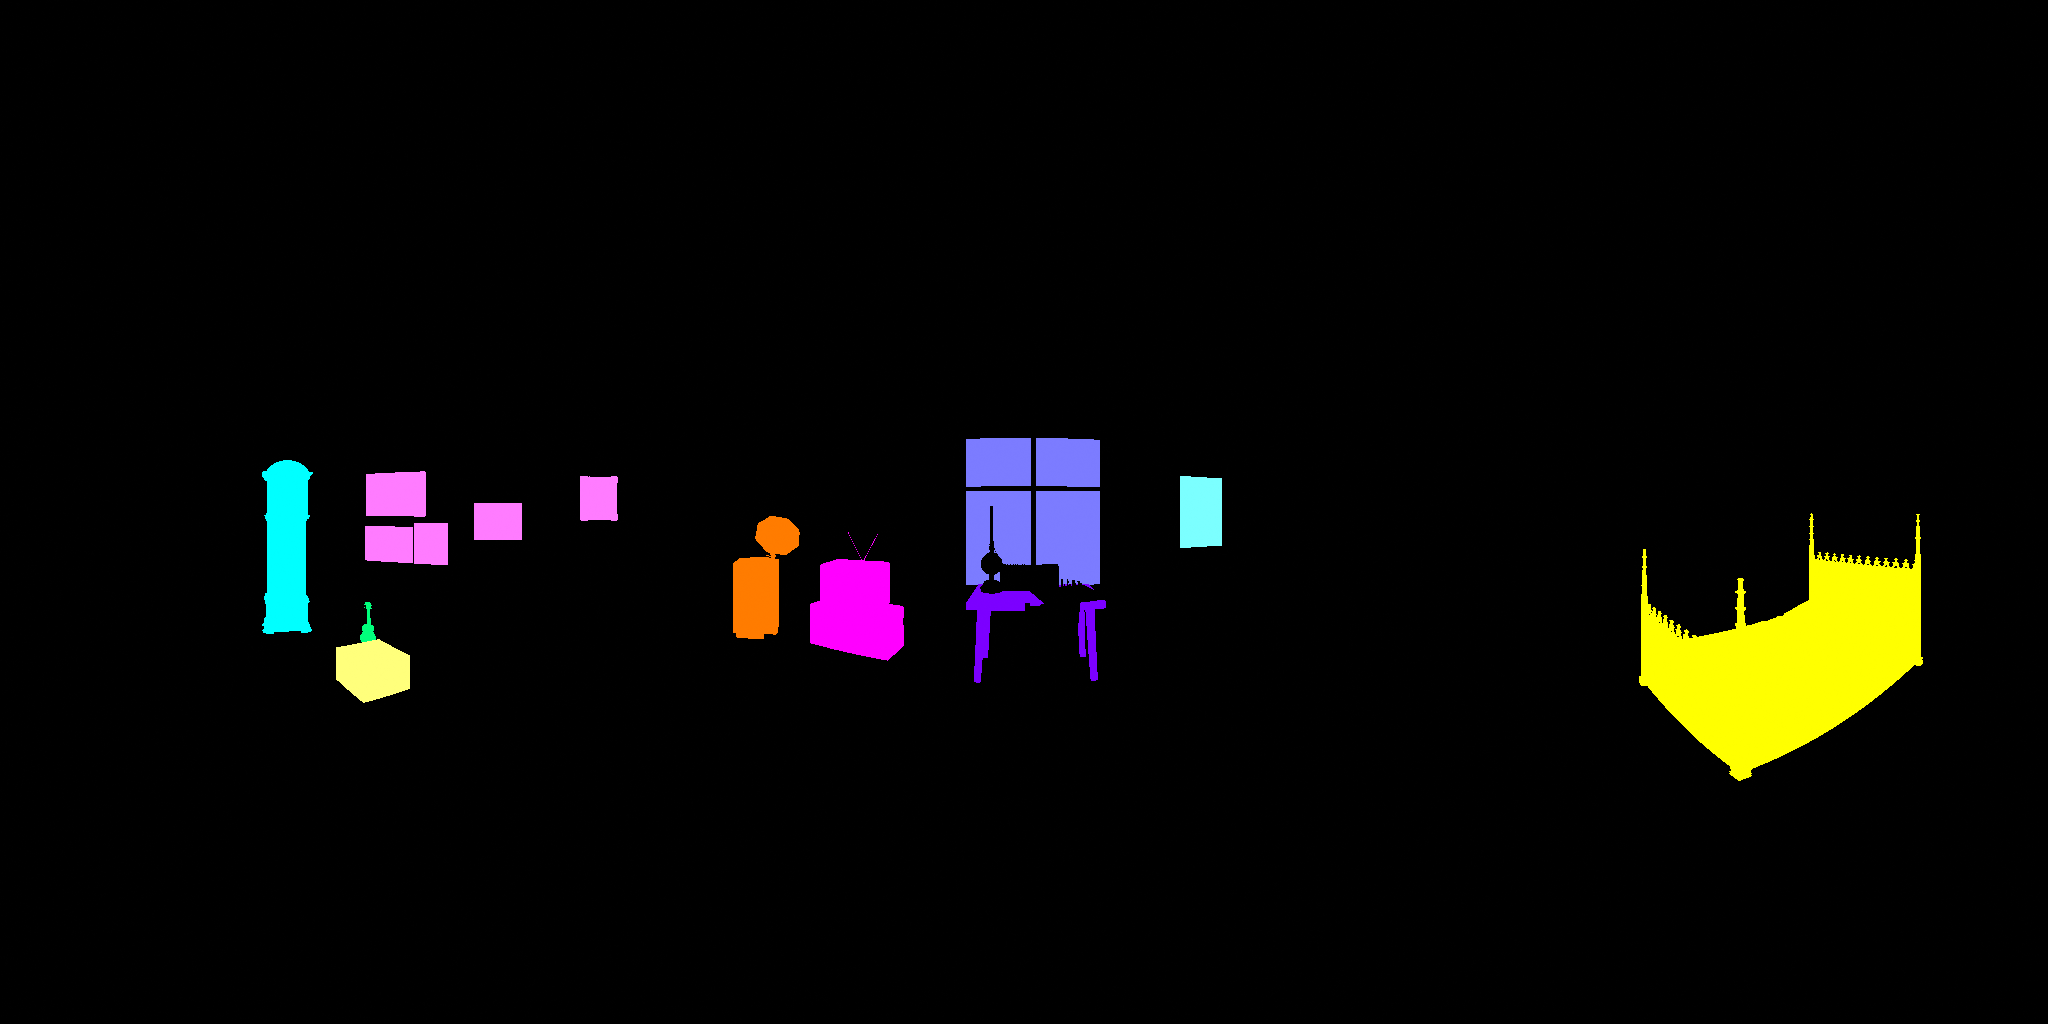
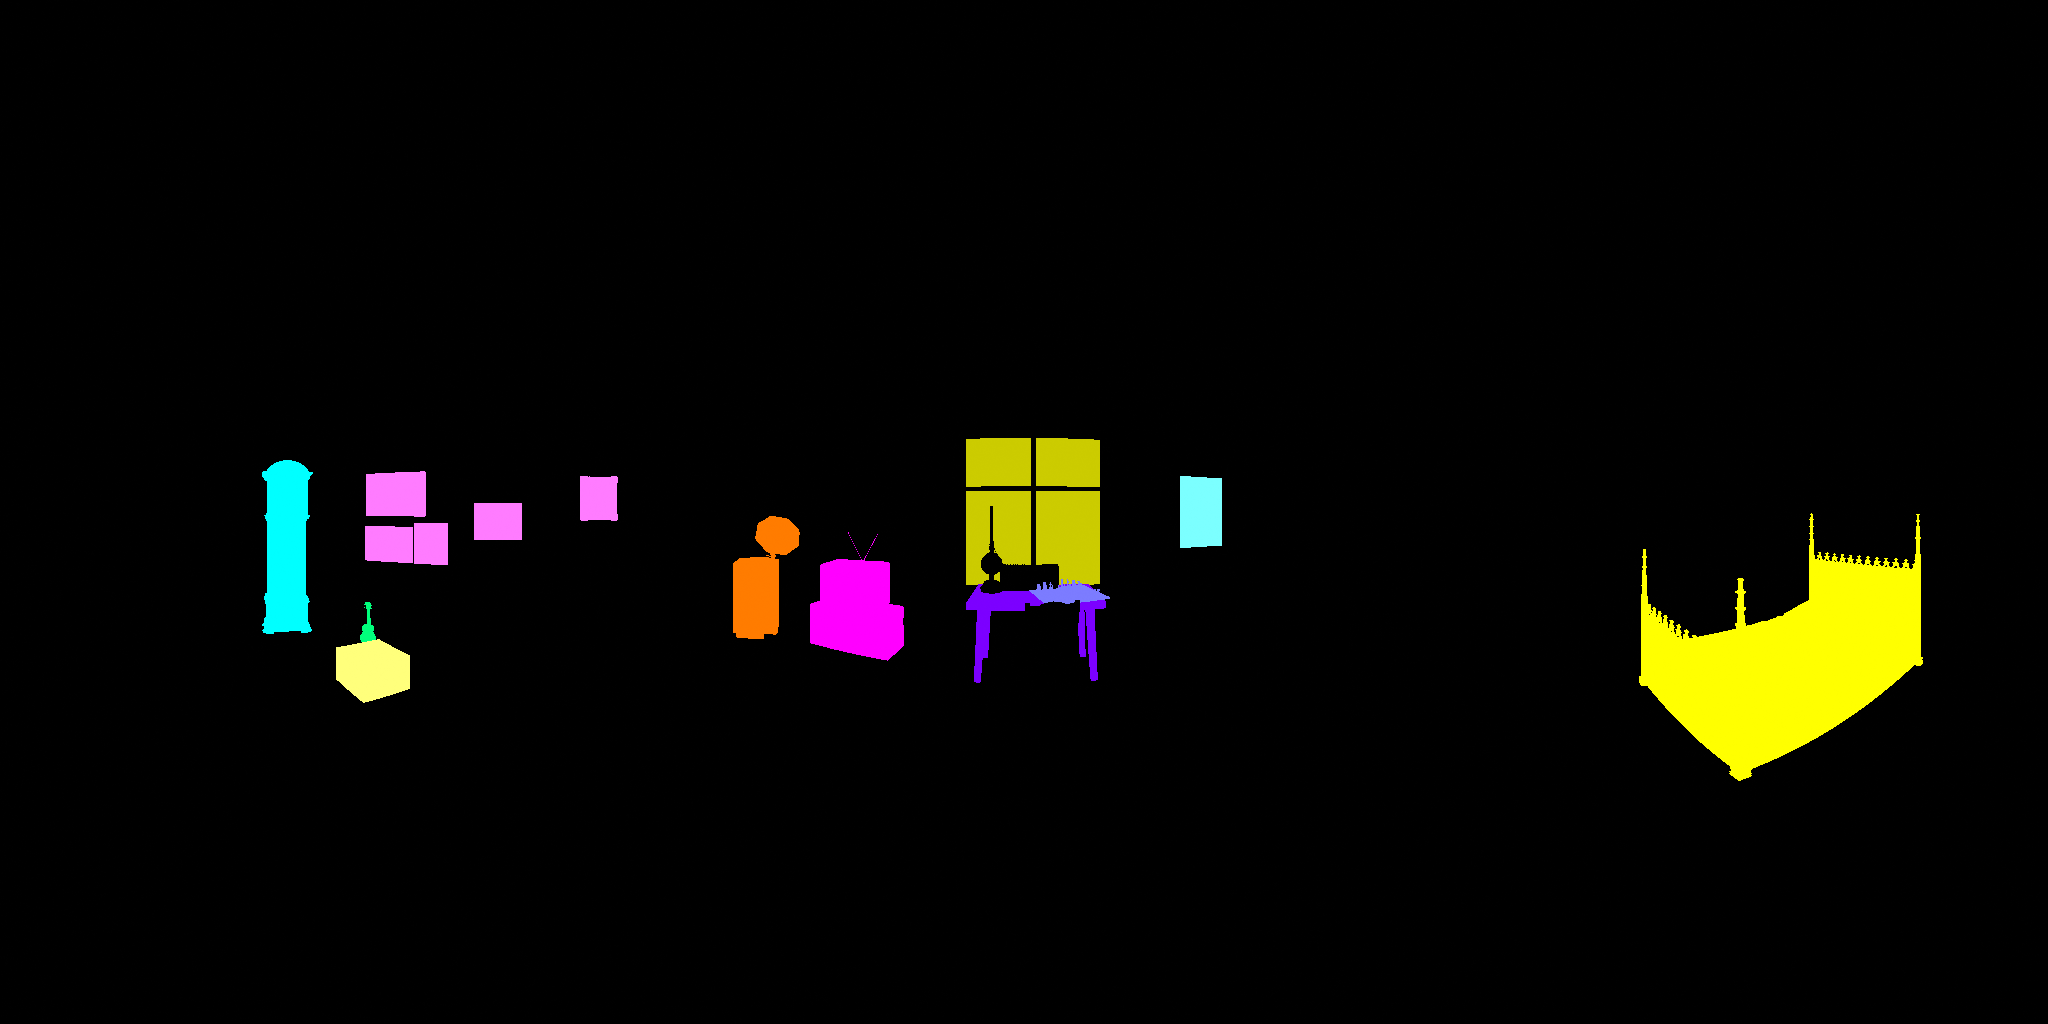
Give the chess set its own spot, with rumors and a reward
- The chess set is a clickable spot in the room (체스판), with a close-up
  rendered from above the desk chair; the desk card is back to its notes
- Taking a piece pins one of the paradise's rumors over the board, the
  room's owner talks when it takes or gives check, and a clock ticks while
  it thinks
- Winning reveals a note for the winner with a way to the gramophone
  (placeholder for an unreleased track or a show hint)

Changed region(s): [[0.4688, 0.4062, 0.5625, 0.5938]]

diff --git a/akmu-pitch/pano/world/chess.js b/akmu-pitch/pano/world/chess.js
@@ -9,6 +9,31 @@ const LEVELS = [
 ];
 const KEY = "akmu-room-chess-v1";
 const OWNER = "방의 주인";
+// what the paradise whispers when you take a piece (in-world tales, not news)
+const RUMORS = [
+  "호수 건너편에선 노래가 한 박자 늦게 들린대요.",
+  "무대 뒤 사구는 밤마다 손톱만큼 자란대요.",
+  "황금빛 덤불은 박수 소리가 나면 꽃을 더 피운대요.",
+  "언덕 위의 문은 노래를 흥얼거려야 열린대요.",
+  "호수 위 배에는 아직 아무도 읽지 않은 편지가 한 통 남아 있대요.",
+  "풍력발전기는 바람이 아니라 노래로 돈대요.",
+  "피크닉 카세트의 B면은 아무도 끝까지 못 들었대요.",
+  "괘종시계는 이 방에서만 거꾸로 간대요.",
+  "TV 탑은 보는 사람마다 다른 장면을 보여 준대요.",
+  "레코드 가판대의 마지막 한 장은 팔지 않는 거래요.",
+  "낙원에선 소문이 사실이 되기까지 사흘이 걸린대요.",
+  "방의 주인은 체스에서 한 번도 진 적이 없대요.",
+];
+const SAYS = {
+  hello: ["오늘은 흰 말을 양보할게요.", "천천히 두세요. 여긴 시간이 느리게 가요."],
+  take: ["이건 제가 가져갈게요.", "아, 미안해요.", "소문보다 제 말이 빠르네요."],
+  check: ["체크. 왕을 조심하세요.", "왕이 좀 외로워 보이네요."],
+  checked: ["음… 생각보다 날카롭네요.", "그 수는 소문에 없던 건데요."],
+  lose: ["졌네요. 약속대로 하나 알려 드릴게요.", "소문이 하나 틀렸네요. 제가 졌어요."],
+  win: ["한 판 더 할래요?", "다음엔 흰 말도 양보 안 할지 몰라요."],
+  draw: ["비긴 걸로 해 두죠.", "오늘은 여기까지 하죠."],
+};
+const pick = (a) => a[Math.floor(Math.random() * a.length)];
 const LETTER = ["", "p", "n", "b", "r", "q", "k"];
 
 const css = `
@@ -38,17 +63,26 @@ const css = `
 .chess .cb-lv button { font-size: 12.5px; padding: 7px 12px; color: var(--soft); }
 .chess .cb-lv button.on { background: var(--ink); color: var(--paper); }
 .chess .cb-ctl .btn { padding: 8px 14px; font-size: 12.5px; }
+.chess .cb-note { position: absolute; left: 50%; top: 14%; z-index: 4; width: min(86%, 320px); padding: 12px 16px 13px; background: #fbf4e2; color: var(--ink);
+  border-radius: 4px; box-shadow: 0 16px 30px -12px rgba(0, 0, 0, .6), 0 0 0 1px rgba(60, 40, 20, .08); font-family: var(--font-ko), serif; font-size: 15px; line-height: 1.55;
+  opacity: 0; transform: translate(-50%, 10px) rotate(-1.5deg); transition: opacity .4s, transform .5s cubic-bezier(.2, .85, .25, 1); pointer-events: none; }
+.chess .cb-note.on { opacity: 1; transform: translate(-50%, 0) rotate(-1.5deg); }
+.chess .cb-note small { display: block; font-family: var(--font-type); font-size: 10.5px; letter-spacing: .12em; color: var(--rust); margin-bottom: 4px; }
+.chess .cb-reward { display: none; margin-top: 14px; padding: 14px 16px; border-radius: 14px; background: var(--ink); color: var(--paper); }
+.chess .cb-reward.on { display: block; }
+.chess .cb-reward small { display: block; font-family: var(--font-type); font-size: 10.5px; letter-spacing: .14em; color: var(--gold); margin-bottom: 6px; }
+.chess .cb-reward p { margin: 0; font-family: var(--font-ko), serif; font-size: 15px; line-height: 1.6; }
+.chess .cb-reward .btn { margin-top: 10px; background: var(--paper); color: var(--ink); }
+.chess .cb-reward .ph { border-color: rgba(255, 248, 234, .3); color: rgba(255, 248, 234, .6); }
 .chess .cb-promo { position: absolute; inset: 0; display: none; place-items: center; background: rgba(30, 22, 14, .45); border-radius: 6px; z-index: 3; }
 .chess .cb-promo.on { display: grid; }
 .chess .cb-promo div { display: flex; gap: 6px; background: var(--paper); padding: 10px; border-radius: 14px; box-shadow: 0 12px 30px -10px #000; }
 .chess .cb-promo button { width: calc(var(--sq) * 1.05); height: calc(var(--sq) * 1.25); position: relative; border-radius: 10px; }
 .chess .cb-promo button:hover { background: rgba(35, 27, 20, .08); }
 .chess .cb-promo img { position: absolute; inset: 4%; width: 92%; height: 92%; object-fit: contain; }
-@media (min-width: 761px) { .card.chessing { width: min(500px, calc(100vw - 32px)); } }
-@media (max-width: 760px) { .card.chessing { max-height: 86vh; } }
 `;
 
-export function mountChess(root, { base = "chess/", tag = "", blip = () => {}, onLeave = null } = {}) {
+export function mountChess(root, { base = "chess/", tag = "", blip = () => {}, openSpot = null } = {}) {
   if (!document.getElementById("chess-css")) {
     const st = document.createElement("style");
     st.id = "chess-css"; st.textContent = css;
@@ -63,15 +97,35 @@ export function mountChess(root, { base = "chess/", tag = "", blip = () => {}, o
 
   root.innerHTML = `<div class="chess">
     <div class="cb-who"><span><b>${OWNER}</b>검은 말</span><span class="cb-caps" data-side="b"></span></div>
-    <div class="cb-board" style="background-image:url(${base}board.jpg${tag})"><div class="cb-promo"><div></div></div></div>
+    <div class="cb-board" style="background-image:url(${base}board.jpg${tag})"><div class="cb-promo"><div></div></div><div class="cb-note"><small></small><span></span></div></div>
     <div class="cb-who"><span><b>나</b>흰 말</span><span class="cb-caps" data-side="w"></span></div>
     <p class="cb-status"></p>
+    <div class="cb-reward"><small>A RUMOR, FOR THE WINNER</small><p>방의 주인이 쪽지를 건넸어요. "축음기 뒤에, 아직 아무도 듣지 못한 노래가 한 곡 있대요."</p>
+      <div class="ph">자리 표시 — 미공개 트랙·다음 공연 힌트 (시안에는 음원 없음)</div><button class="btn" data-act="gramophone">축음기로 가 보기 →</button></div>
     <div class="cb-ctl">
       <div class="cb-lv">${LEVELS.map((l, i) => `<button data-lv="${i}">${l.name}</button>`).join("")}</div>
-      <div class="btns" style="margin:0"><button class="btn" data-act="undo">무르기</button><button class="btn" data-act="new">새 판</button>${onLeave ? `<button class="btn" data-act="leave">노트로</button>` : ""}</div>
+      <div class="btns" style="margin:0"><button class="btn" data-act="undo">무르기</button><button class="btn" data-act="new">새 판</button></div>
     </div></div>`;
   const box = root.querySelector(".chess"), boardEl = box.querySelector(".cb-board"), statusEl = box.querySelector(".cb-status");
-  const promoEl = box.querySelector(".cb-promo");
+  const promoEl = box.querySelector(".cb-promo"), noteEl = box.querySelector(".cb-note"), rewardEl = box.querySelector(".cb-reward");
+  let noteTimer = 0, rumorAt = 0, tickTimer = 0;
+  try { rumorAt = +localStorage.getItem(KEY + "-rumor") || 0; } catch (e) { rumorAt = 0; }
+  // a paper note over the board: a rumor of the paradise, or a word from the room's owner
+  function note(label, text, ms = 3800) {
+    noteEl.querySelector("small").textContent = label;
+    noteEl.querySelector("span").textContent = text;
+    noteEl.classList.add("on");
+    clearTimeout(noteTimer);
+    noteTimer = setTimeout(() => noteEl.classList.remove("on"), ms);
+  }
+  const says = (k) => note(OWNER, pick(SAYS[k]));
+  function rumor() {
+    const text = RUMORS[rumorAt % RUMORS.length];
+    rumorAt++;
+    try { localStorage.setItem(KEY + "-rumor", rumorAt); } catch (e) { /* not kept */ }
+    note("소문 · RUMOR", text, 4600);
+    blip(990, 0.06, 0.025);
+  }
   const size = () => {
     // the whole card (title, board, controls) fits the screen without scrolling: about 330 px of it is not board
     const room = innerWidth <= 760 ? innerHeight * 0.86 - 320 : innerHeight - 96 - 330;
@@ -113,6 +167,9 @@ export function mountChess(root, { base = "chess/", tag = "", blip = () => {}, o
   function status() {
     const s = game.s, end = outcome(s, game.keys);
     statusEl.classList.toggle("think", thinking);
+    const won = !!end && end.result === "1-0";
+    if (won && !rewardEl.classList.contains("on")) setTimeout(() => rewardEl.scrollIntoView({ block: "nearest", behavior: "smooth" }), 400);
+    rewardEl.classList.toggle("on", won);
     if (end) {
       const why = { checkmate: "체크메이트", stalemate: "스테일메이트", fifty: "50수 규칙", material: "기물 부족", repetition: "같은 수 반복" }[end.why];
       statusEl.textContent = end.result === "1-0" ? `${why} — 당신이 이겼어요.` : end.result === "0-1" ? `${why} — ${OWNER}이 이겼어요.` : `${why}로 비겼어요.`;
@@ -166,12 +223,20 @@ export function mountChess(root, { base = "chess/", tag = "", blip = () => {}, o
     blip(m.captured ? 180 : 240, m.captured ? 0.09 : 0.05, 0.06);
     save();
     const end = draw();
-    if (end) { blip(end.result === "1-0" ? 880 : 330, 0.4, 0.05); return; }
+    if (end) {
+      blip(end.result === "1-0" ? 880 : 330, 0.4, 0.05);
+      says(end.result === "1-0" ? "lose" : end.result === "0-1" ? "win" : "draw");
+      return;
+    }
+    if (m.captured) { if (byOwner) says("take"); else rumor(); }
+    else if (inCheck(game.s)) says(byOwner ? "check" : "checked");
     if (!byOwner && game.s.turn === BLACK) think();
   }
 
   function think() {
     thinking = true; draw();
+    clearInterval(tickTimer);   // the clock ticks while the owner thinks
+    tickTimer = setInterval(() => { if (thinking && alive) blip(2400, 0.02, 0.02); else clearInterval(tickTimer); }, 600);
     worker.postMessage({ id: ++ask, moves, opts: LEVELS[level].opts });
   }
 
@@ -210,14 +275,14 @@ export function mountChess(root, { base = "chess/", tag = "", blip = () => {}, o
     moves = moves.slice(0, Math.max(0, moves.length - n));
     selected = null; targets = []; save(); load(); draw();
   };
-  const leave = box.querySelector('[data-act="leave"]');
-  if (leave) leave.onclick = () => onLeave();
+  box.querySelector('[data-act="gramophone"]').onclick = () => openSpot && openSpot("gramophone");
 
   load();
   draw();
+  if (!moves.length) setTimeout(() => alive && says("hello"), 700);
   if (game.s.turn === BLACK && !outcome(game.s, game.keys)) think();   // a saved game left on the owner's move
 
   return {
-    destroy() { alive = false; worker.terminate(); removeEventListener("resize", size); },
+    destroy() { alive = false; worker.terminate(); clearInterval(tickTimer); clearTimeout(noteTimer); removeEventListener("resize", size); },
   };
 }

diff --git a/akmu-pitch/pano/world/index.html b/akmu-pitch/pano/world/index.html
@@ -155,6 +155,8 @@ body.intro #island { opacity: 0; transform: translateX(-50%) translateY(-12px) s
 .card h2 span { display: inline-block; opacity: 0; filter: blur(8px); transform: translateY(8px); animation: word .7s var(--ease) forwards; }
 @keyframes word { to { opacity: 1; filter: none; transform: none; } }
 .card .sub { color: var(--soft); font-size: 14.5px; margin: 0 0 18px; }
+@media (min-width: 761px) { .card.chessing { width: min(500px, calc(100vw - 32px)); } }
+@media (max-width: 760px) { .card.chessing { max-height: 86vh; } }
 .card p { font-size: 15px; line-height: 1.7; }
 .card ol, .card ul { padding: 0; margin: 0 0 14px; list-style: none; }
 .card li { display: flex; gap: 10px; align-items: baseline; padding: 10px 0; border-bottom: 1px solid rgba(43, 33, 25, .1); font-size: 15px; }
@@ -644,7 +646,8 @@ const CONTENT = {
     photos: { label: "액자", note: "사진", tag: "PHOTOS", title: "벽에 걸린 장면들", sub: "공연과 뮤직비디오의 순간", html: polaroids() },
     poster: { label: "포스터", note: "공연", tag: "CONCERT", title: "소문의 낙원", sub: "벽에 붙여 둔 공연 포스터", html: `<img class="tilt" src="${REF}concert_02.png" alt="" style="width:100%;display:block;margin-bottom:14px;border-radius:12px">${concert}` },
     records: { label: "LP 상자", note: "디스코그래피", tag: "DISCOGRAPHY", title: "레코드 상자", sub: "지금까지의 앨범들", html: `<ul><li>개화 (FLOWERING)<small>LATEST</small></li><li>앨범 제목<small>YYYY</small></li><li>앨범 제목<small>YYYY</small></li></ul>${PH("디스코그래피 데이터")}` },
-    desk: { label: "책상", note: "가사 노트", tag: "NOTES", title: "가사 노트", sub: "창가 책상 위에 펼쳐 둔 노트와 체스판", html: `<p class="type" style="white-space:pre-line;background:#fbf6ea;padding:16px;border-radius:14px">소문의 낙원 —\n\n(가사 영역)</p><div class="btns"><button class="btn fill" id="playChess">창가의 체스 두기</button></div>${PH("가사·작업 노트")}` },
+    desk: { label: "책상", note: "가사 노트", tag: "NOTES", title: "가사 노트", sub: "창가 책상 위에 펼쳐 둔 노트", html: `<p class="type" style="white-space:pre-line;background:#fbf6ea;padding:16px;border-radius:14px">소문의 낙원 —\n\n(가사 영역)</p>${PH("가사·작업 노트")}` },
+    chess: { label: "체스판", note: "한 판 두기", tag: "CHESS", title: "창가의 체스", sub: "당신은 흰 말, 방의 주인은 검은 말. 말을 누르고 갈 칸을 누르세요.", html: `<div id="chessRoot"></div>`, chess: true },
     ukulele: { label: "우쿨렐레", note: "비하인드", tag: "BEHIND", title: "비하인드", sub: "작업실에서 생긴 일들", html: `<ul><li>비하인드 영상 제목<small>VIDEO</small></li><li>크레딧<small>CREDIT</small></li></ul>${PH("비하인드 콘텐츠")}` },
     bed: { label: "침대", note: "밤의 노래", tag: "GOOD NIGHT", title: "잠들기 전에", sub: "불을 끄고 듣는 노래", html: `<ol><li>트랙 이름<small>01</small></li><li>트랙 이름<small>02</small></li><li>트랙 이름<small>03</small></li></ol>${PH("밤 플레이리스트")}` },
     clock: { label: "괘종시계", note: "타임라인", tag: "TIMELINE", title: "AKMU의 시간", sub: "시계가 기억하는 순간들", html: `<ul><li>YYYY<small>사건 제목</small></li><li>YYYY<small>사건 제목</small></li><li>YYYY<small>사건 제목</small></li></ul>${PH("연대기 데이터")}` },
@@ -652,7 +655,7 @@ const CONTENT = {
   },
 };
 // bump when the renders change, so browsers fetch the new images instead of cached ones
-const V = "?r=20261027-chess";
+const V = "?r=20261027-chess2";
 const PLACE_NAME = { desert: "소문의 낙원", room: "방" };
 
 const $ = (s) => document.querySelector(s);
@@ -1128,6 +1131,7 @@ async function open(s, fromRect) {
   const c = CONTENT[place.name][s.key];
   if (!c || busy) return;
   busy = true; setHover(null); blip(660, 0.12, 0.05);
+  const chessMod = c.chess ? await import("./chess.js" + V) : null;
   if (c.enter) { await turnTo(s.dir, 30); await travel(c.enter); busy = false; return; }
   turnTo(s.dir, 46, 850);
   canvas.classList.add("dim");
@@ -1136,6 +1140,8 @@ async function open(s, fromRect) {
   const card = $("#card");
   card.classList.remove("ready");
   card.innerHTML = `<div class="tag">${c.tag}</div><h2>${words(c.title)}</h2><p class="sub">${c.sub}</p>${c.html}`;
+  card.classList.toggle("chessing", !!chessMod);
+  if (chessMod) chessGame = chessMod.mountChess($("#chessRoot"), { tag: V, blip, openSpot });
   const shot = $("#shot");
   shot.classList.remove("closing");
   shot.classList.add("on");
@@ -1232,28 +1238,15 @@ function tiltable(root) {
     el.onpointerleave = () => { el.classList.remove("live"); el.style.transform = base; };
   });
 }
-// the chess set on the desk: the card turns into a board you play against the room's owner
+// the chess set on the desk: its card is a board you play against the room's owner
 let chessGame = null;
 function endChess() {
   if (chessGame) { chessGame.destroy(); chessGame = null; }
   $("#card").classList.remove("chessing");
 }
-async function startChess() {
-  const card = $("#card");
-  const { mountChess } = await import("./chess.js" + V);
-  card.classList.add("chessing");
-  card.innerHTML = `<div class="tag">CHESS</div><h2>${words("창가의 체스")}</h2><p class="sub">당신은 흰 말, 방의 주인은 검은 말. 말을 누르고 갈 칸을 누르세요.</p><div id="chessRoot"></div>`;
-  chessGame = mountChess($("#chessRoot"), { tag: V, blip, onLeave: () => {
-    endChess();
-    const c = CONTENT.room.desk;
-    card.innerHTML = `<div class="tag">${c.tag}</div><h2>${words(c.title)}</h2><p class="sub">${c.sub}</p>${c.html}`;
-    wireCard();
-  } });
-}
+const openSpot = async (key) => { await closeShot(); const s = place.spots.find((x) => x.key === key); if (s) open(s); };
 function wireCard() {
   wireDeck();
-  const pc = $("#playChess");
-  if (pc) pc.onclick = () => { blip(520, 0.08, 0.04); startChess(); };
   tiltable($("#card"));
   const sl = $("#sendLetter");
   if (sl) sl.onclick = () => {

diff --git a/README.md b/README.md
@@ -20,7 +20,9 @@ MV와 무이네(Mũi Né) 사진을 바탕으로 Blender로 만든 360° 장면 
 - **방:** 축음기·TV·액자·침대가 있는 방. 창밖으로 낙원의 사구와 덤불이 보입니다
 - 물건에 마우스를 올리면 라벨이 켜지고, 누르면 4K 클로즈업과 콘텐츠 카드(공연, M/V, 앨범, 소문, 굿즈, 플레이리스트, 편지)가 열립니다
 - '언덕 위의 문'과 방의 '창문'으로 두 장소를 오갑니다
-- **창가의 체스:** 방의 '책상' 카드에서 '창가의 체스 두기'를 누르면 방의 체스 세트로 '방의 주인'(컴퓨터)과 둘 수 있습니다. 쉬움·보통·어려움 3단계, 무르기, 새 판, 승진 선택, 이어 두기(브라우저에 저장)
+- **창가의 체스:** 방의 '체스판'을 누르면 방의 체스 세트로 '방의 주인'(컴퓨터)과 둘 수 있습니다. 쉬움·보통·어려움 3단계, 무르기, 새 판, 승진 선택, 이어 두기(브라우저에 저장)
+  - 말을 잡으면 낙원의 '소문' 쪽지가, 방의 주인이 잡거나 체크하면 혼잣말이 판 위에 뜹니다. 방의 주인이 생각하는 동안 시계 소리가 납니다
+  - 이기면 숨은 소문 쪽지와 '축음기로 가 보기'가 열립니다 (미공개 트랙·공연 힌트 자리)
 - 「소문의 낙원」은 앨범 『개화 (FLOWERING)』의 선공개곡으로 표기합니다(PRE-RELEASE)
 - 브라우저 움직임: 호수 물결과 반짝임, 풀 흔들림, 떠다니는 먼지, 합성 앰비언스(바람·물·방 소리)
 - 라이브러리: three.js 0.170 (CDN), 빌드 과정 없음
